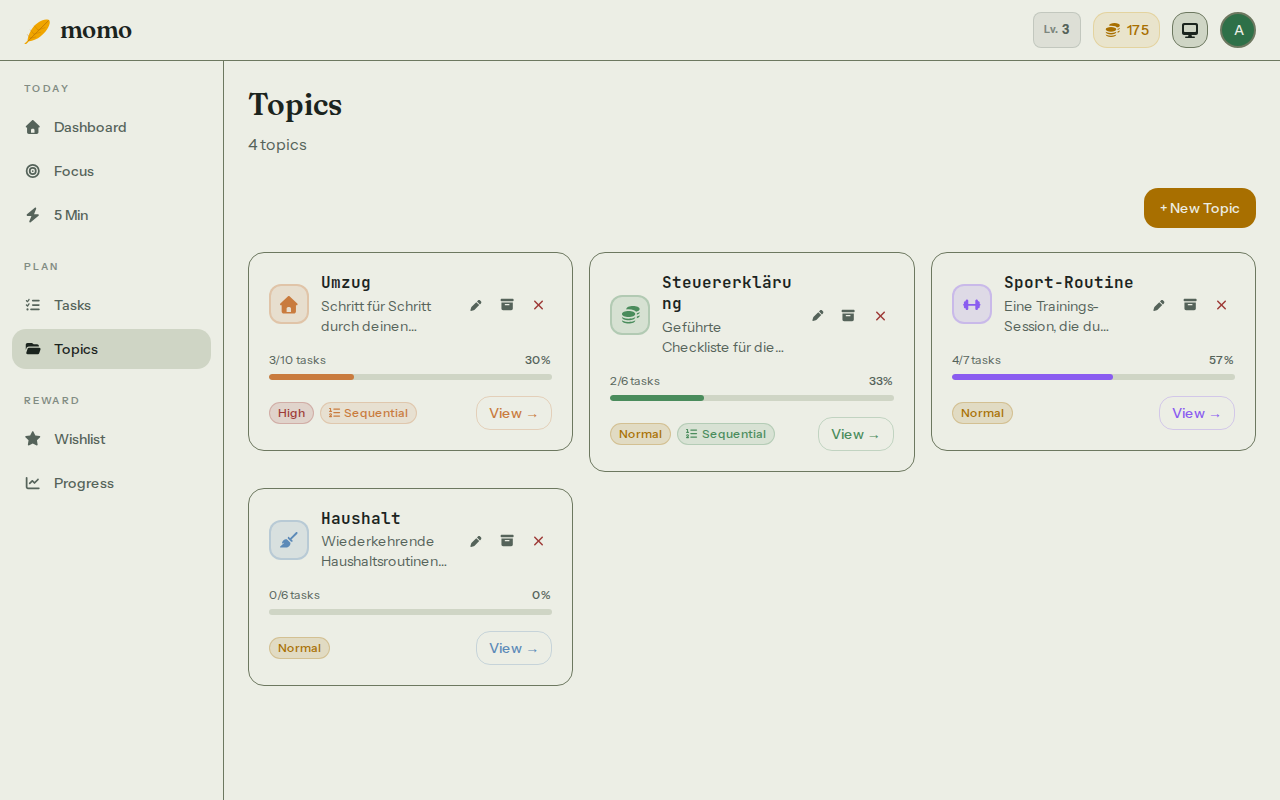
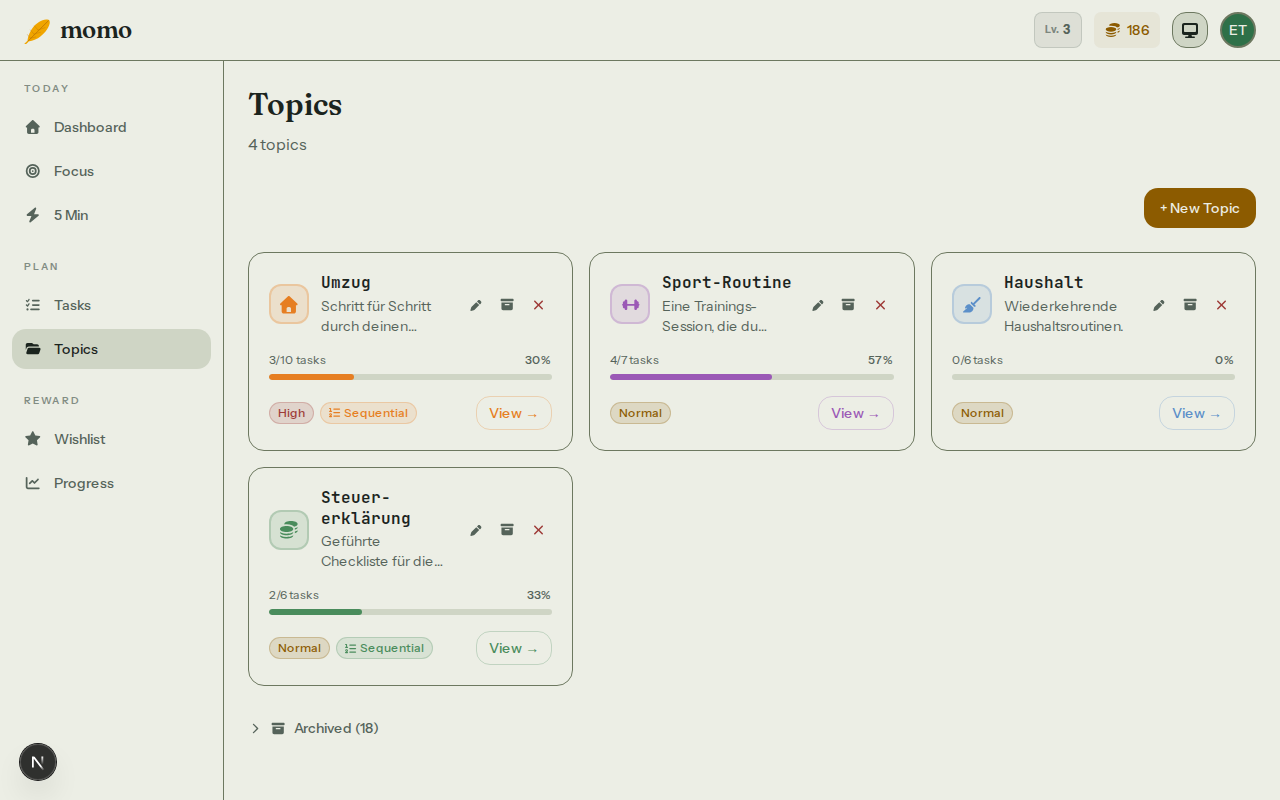
docs: correct the amber-fill claim and retake the broken screenshot
CHANGELOG's Unreleased section said amber is "nirgends mehr eine
gefüllte Fläche" without qualification, but 02-topics.png and
03-habits.png — committed in the same change — show a filled amber
"+ New Topic" button, because Topics is not migrated yet (the
implementation plan explicitly covers only steps 1-3: tokens/
primitives, enforcement tests, Dashboard as pilot — see
docs/superpowers/specs/2026-08-21-lichtkegel-design.md §8). Reworded
to say which is true today (Dashboard and /design-system) and which
isn't yet (Topics, Tasks, Wishlist, Progress, Habits, and the rest),
rather than weakening the claim into vagueness.

Retook 02-topics.png: the previous version showed a topic title
broken mid-word ("Steuererkläru/ng") and content from an e2e test
account (topics named "E2E Topic 1787...", etc.) rather than the
curated demo data the doc screenshots use elsewhere. The mid-word
break reproduces deterministically — TopicCard's title column is too
narrow for "Steuererklärung" as one line even under standards-based
overflow-wrap, so retaking with the same title changes nothing; fixed
by giving the demo topic a soft hyphen (U+00AD) at the correct German
compound-word boundary (Steuer|erklärung) instead of changing
TopicCard's wrap CSS site-wide, which is out of scope for this
finding and would need its own investigation across every place a
long topic title can appear. New screenshot has the same four demo
topics, task counts, and progress percentages as before (Umzug 3/10
[…]

diff --git a/CHANGELOG.md b/CHANGELOG.md
@@ -22,10 +22,17 @@ Format follows [Keep a Changelog](https://keepachangelog.com/en/1.0.0/).
 - **Neues visuelles Fundament („Lichtkegel"): zwei Flächenwerte statt Rahmen und Schatten überall.**
   Statt acht gleich gerahmten, gleich beschatteten Kästen liegt gewöhnlicher Inhalt jetzt direkt auf
   dem Hintergrund; eine sichtbare Fläche mit Kontur erscheint nur noch dort, wo sie eine echte
-  Bedienmöglichkeit markiert — ein Eingabefeld, ein Button. Amber (die Akzentfarbe) ist nur noch
+  Bedienmöglichkeit markiert — ein Eingabefeld, ein Button. Amber (die Akzentfarbe) ist auf den in
+  diesem Schritt umgestellten Flächen — Dashboard und die Referenzseite `/design-system` — nur noch
   Licht: Textfarbe oder ein weicher Glanz, nirgends mehr eine gefüllte Fläche, und pro Seite
-  höchstens einmal vorhanden. Radien sind auf vier Werte vereinheitlicht (vorher sechs
-  unterschiedliche, dazu von Tailwind geerbte Defaults ohne eigene Definition).
+  höchstens einmal vorhanden. Dieser Schritt deckt bewusst nur die Schritte 1–3 des Lichtkegel-Plans
+  ab (Tokens/Primitives, Durchsetzungstests, Dashboard als Pilot); Topics, Tasks, Wishlist, Progress,
+  Habits und die übrigen Seiten sind noch NICHT umgestellt und zeigen bis zu ihrer eigenen Migration
+  weiterhin die alte gefüllte Amber-Fläche — sichtbar z. B. im „+ New Topic"-Button auf
+  `02-topics.png`. Die restlichen Seiten folgen in einem eigenständig geplanten, späteren Schritt
+  (siehe `docs/superpowers/specs/2026-08-21-lichtkegel-design.md` §8). Radien sind auf den
+  umgestellten Flächen auf vier Werte vereinheitlicht (vorher sechs unterschiedliche, dazu von
+  Tailwind geerbte Defaults ohne eigene Definition).
 - **Neue Schriften: Fraunces statt Lora, Instrument Sans statt DM Sans.** JetBrains Mono bleibt für
   Aufgabentext und Zahlen. Beide neuen Schriften sind variabel bzw. selbst gehostet über
   `next/font/google` — keine externen Requests zur Laufzeit.
